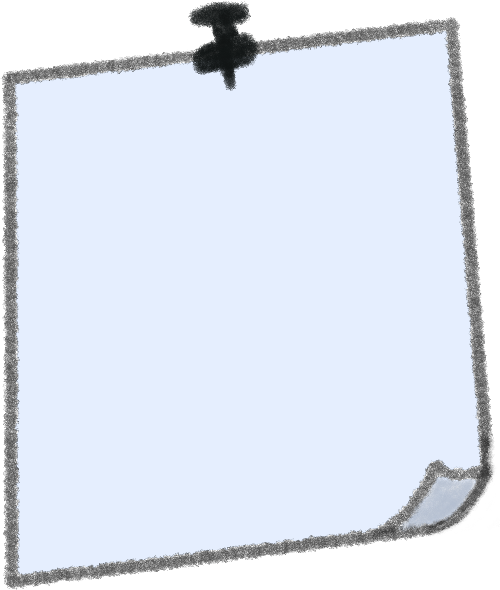
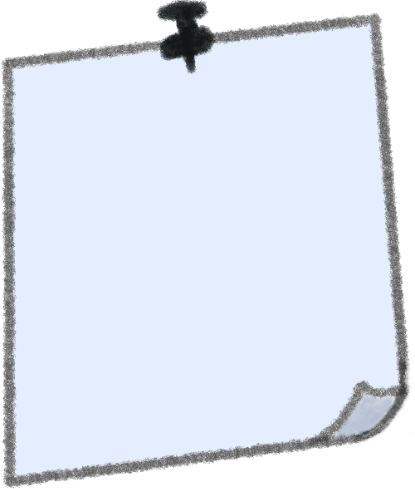
fixed sizing of png images in gimp and manipulated css width and height to more appropriate sizes

diff --git a/style.css b/style.css
@@ -38,14 +38,16 @@ h1{
     justify-items: center;
     align-items: center;
     background-image: url(./pictures/Resultsbox.png);
-    background-size: cover;
-    width: 400px;
-    height: 350px;
-    
+    background-size: contain;
+    background-repeat: no-repeat;
+    width: 500px;
+    height: 300px;
+    min-width: none;
+    min-height: auto;
     
     margin: 15px, 20px;
     
-    width: 95%;
+    
     margin-bottom: 1em;
 }
 
@@ -54,7 +56,7 @@ h1{
     height: 100px;
     width: 70%;
     margin-left: 80px;
-    background-image:url(./Resultsbox.png);
+    
     padding: 1em;
 }
 
@@ -74,7 +76,7 @@ h1{
     background-image: url(./pictures/sticky1.png);
     background-size:contain;
     background-repeat:no-repeat;
-
+    
 }
 
 #player_score{
@@ -84,4 +86,6 @@ h1{
     padding-top: 20px;
     margin-top: 0px;
     justify-self: center;
+    height: 125px;
+    width: 100px;
 }
